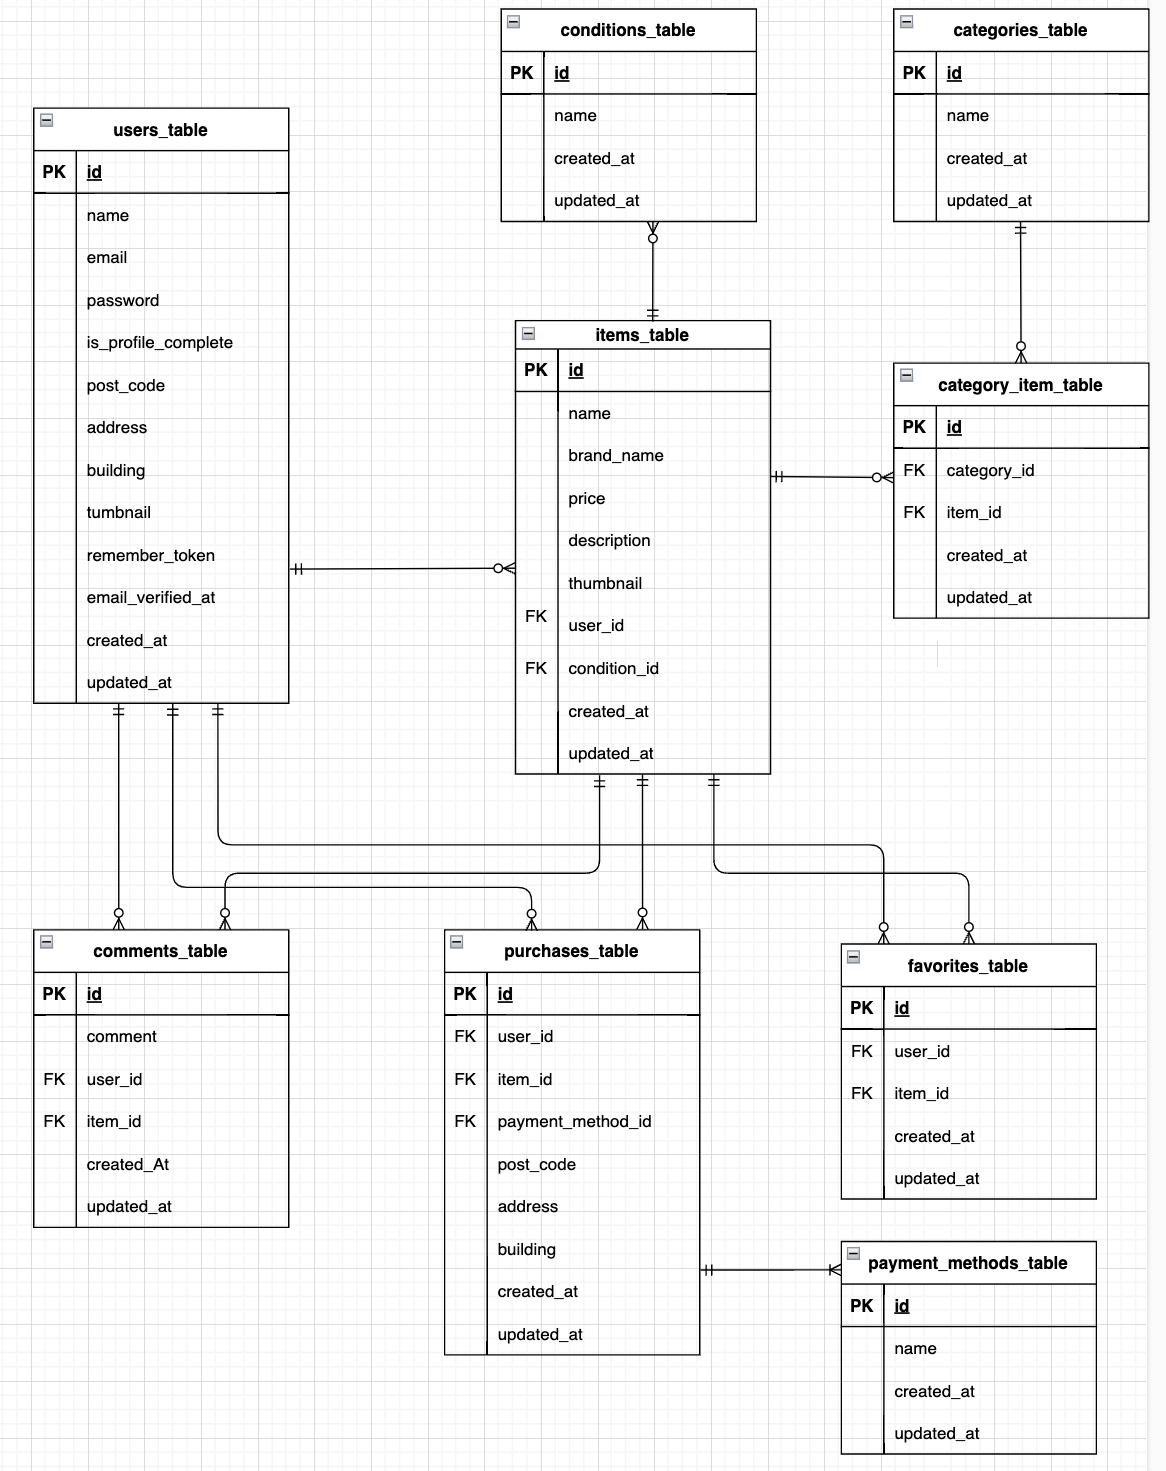
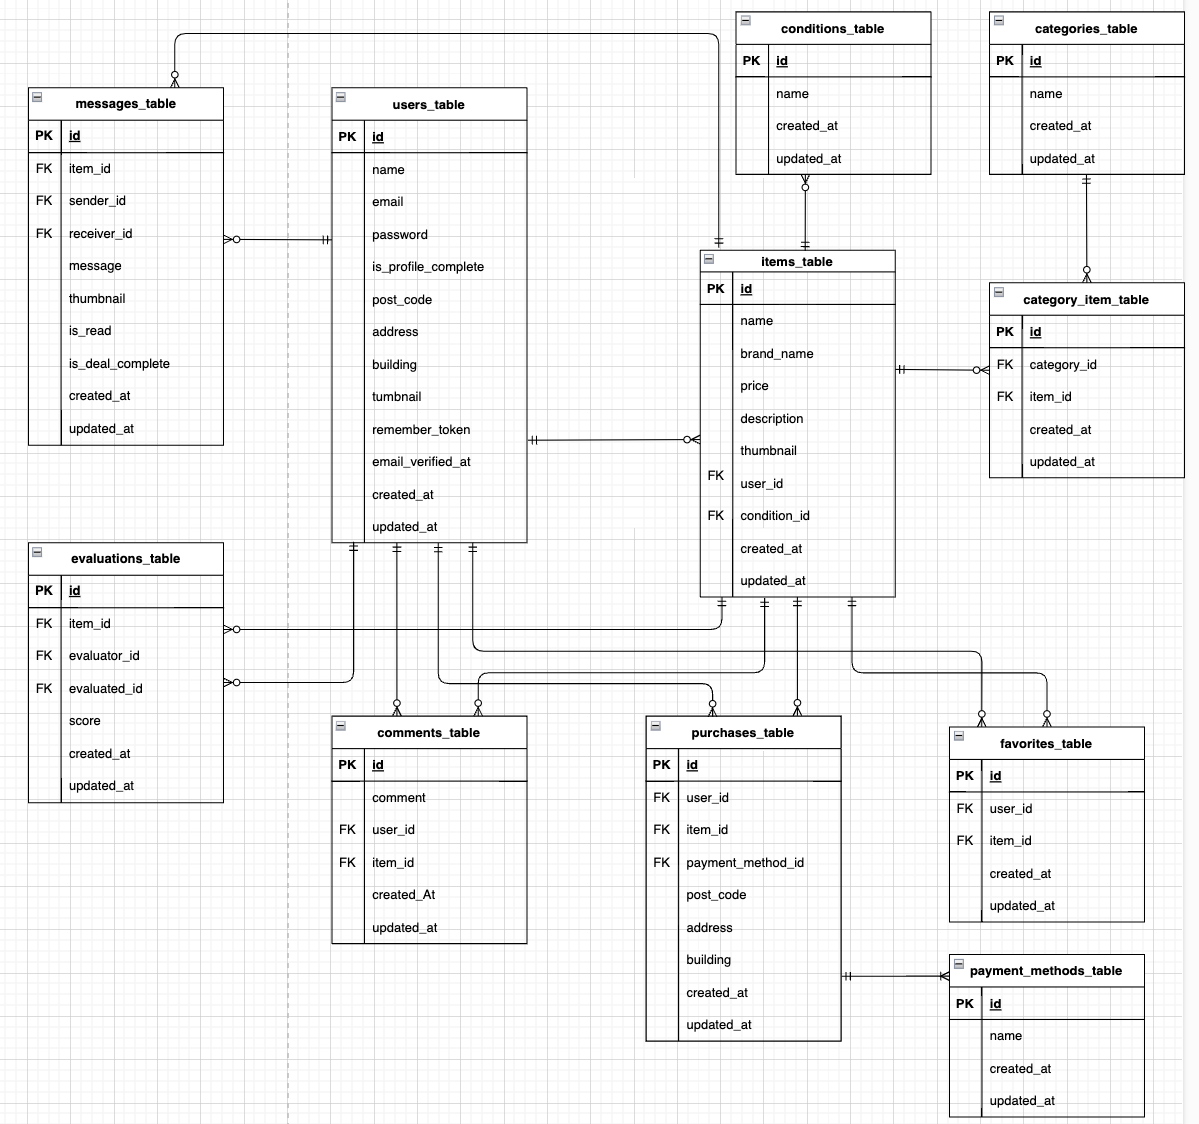
edit README.

Changed region(s): [[0.0, 0.0, 0.988, 0.9964], [0.1852, 0.2802, 0.2161, 0.3737], [0.2161, 0.0, 0.2779, 0.0311]]

diff --git a/README.md b/README.md
@@ -58,9 +58,10 @@ MySQL8.1　　
 
 ## テーブル設計
 
-![Alt text](table1.png)  
-![Alt text](table2.png)  
-![Alt text](table3.png)  
+![Alt text](table1.png)　　
+![Alt text](table2.png)　　
+![Alt text](table3.png)　　
+![Alt text](<table4.png>)　　
 
 ## ER図
 
